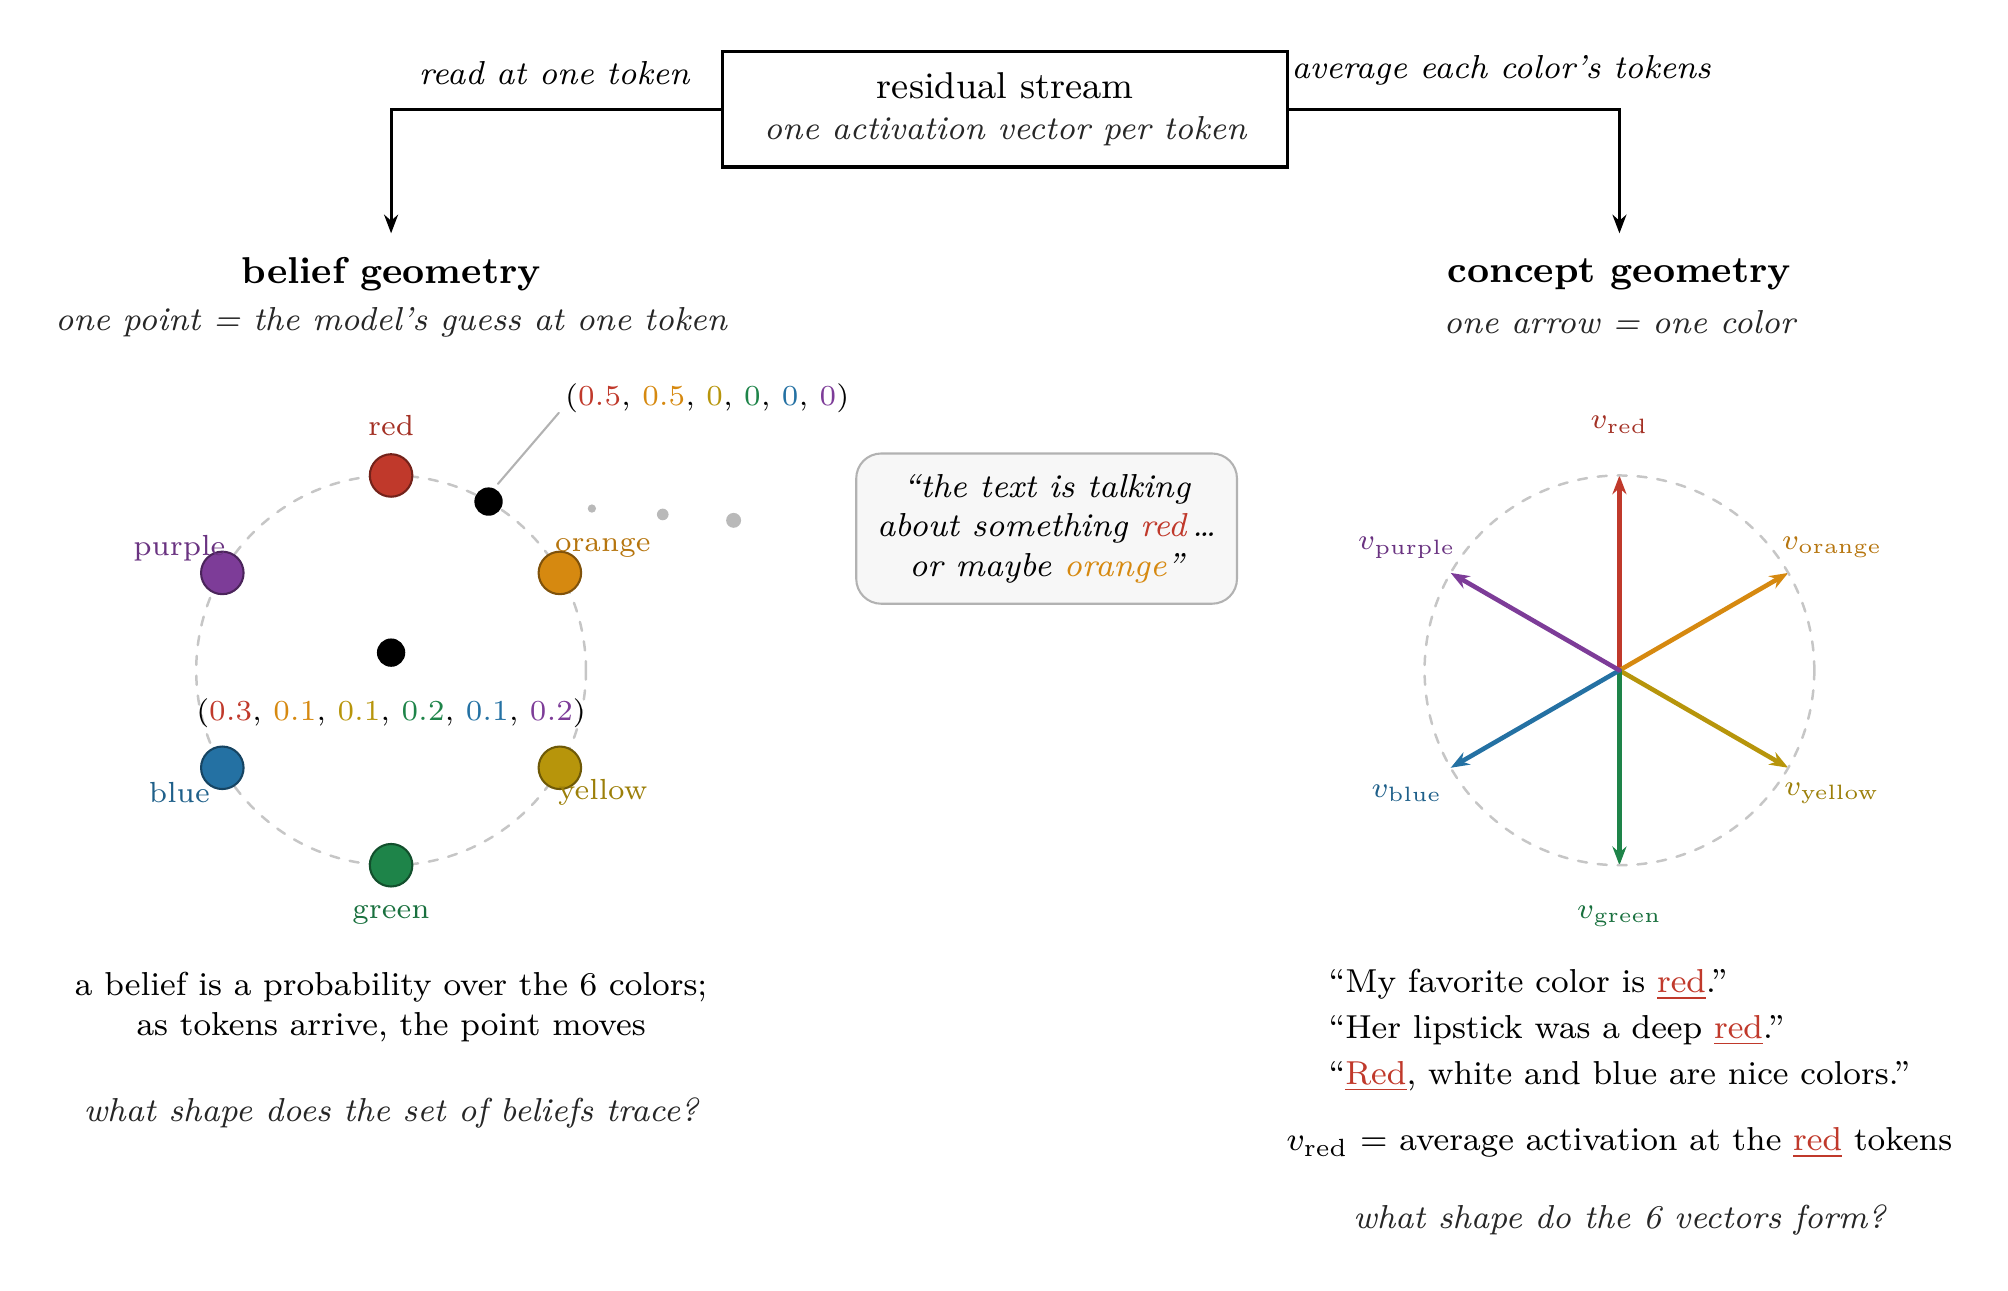
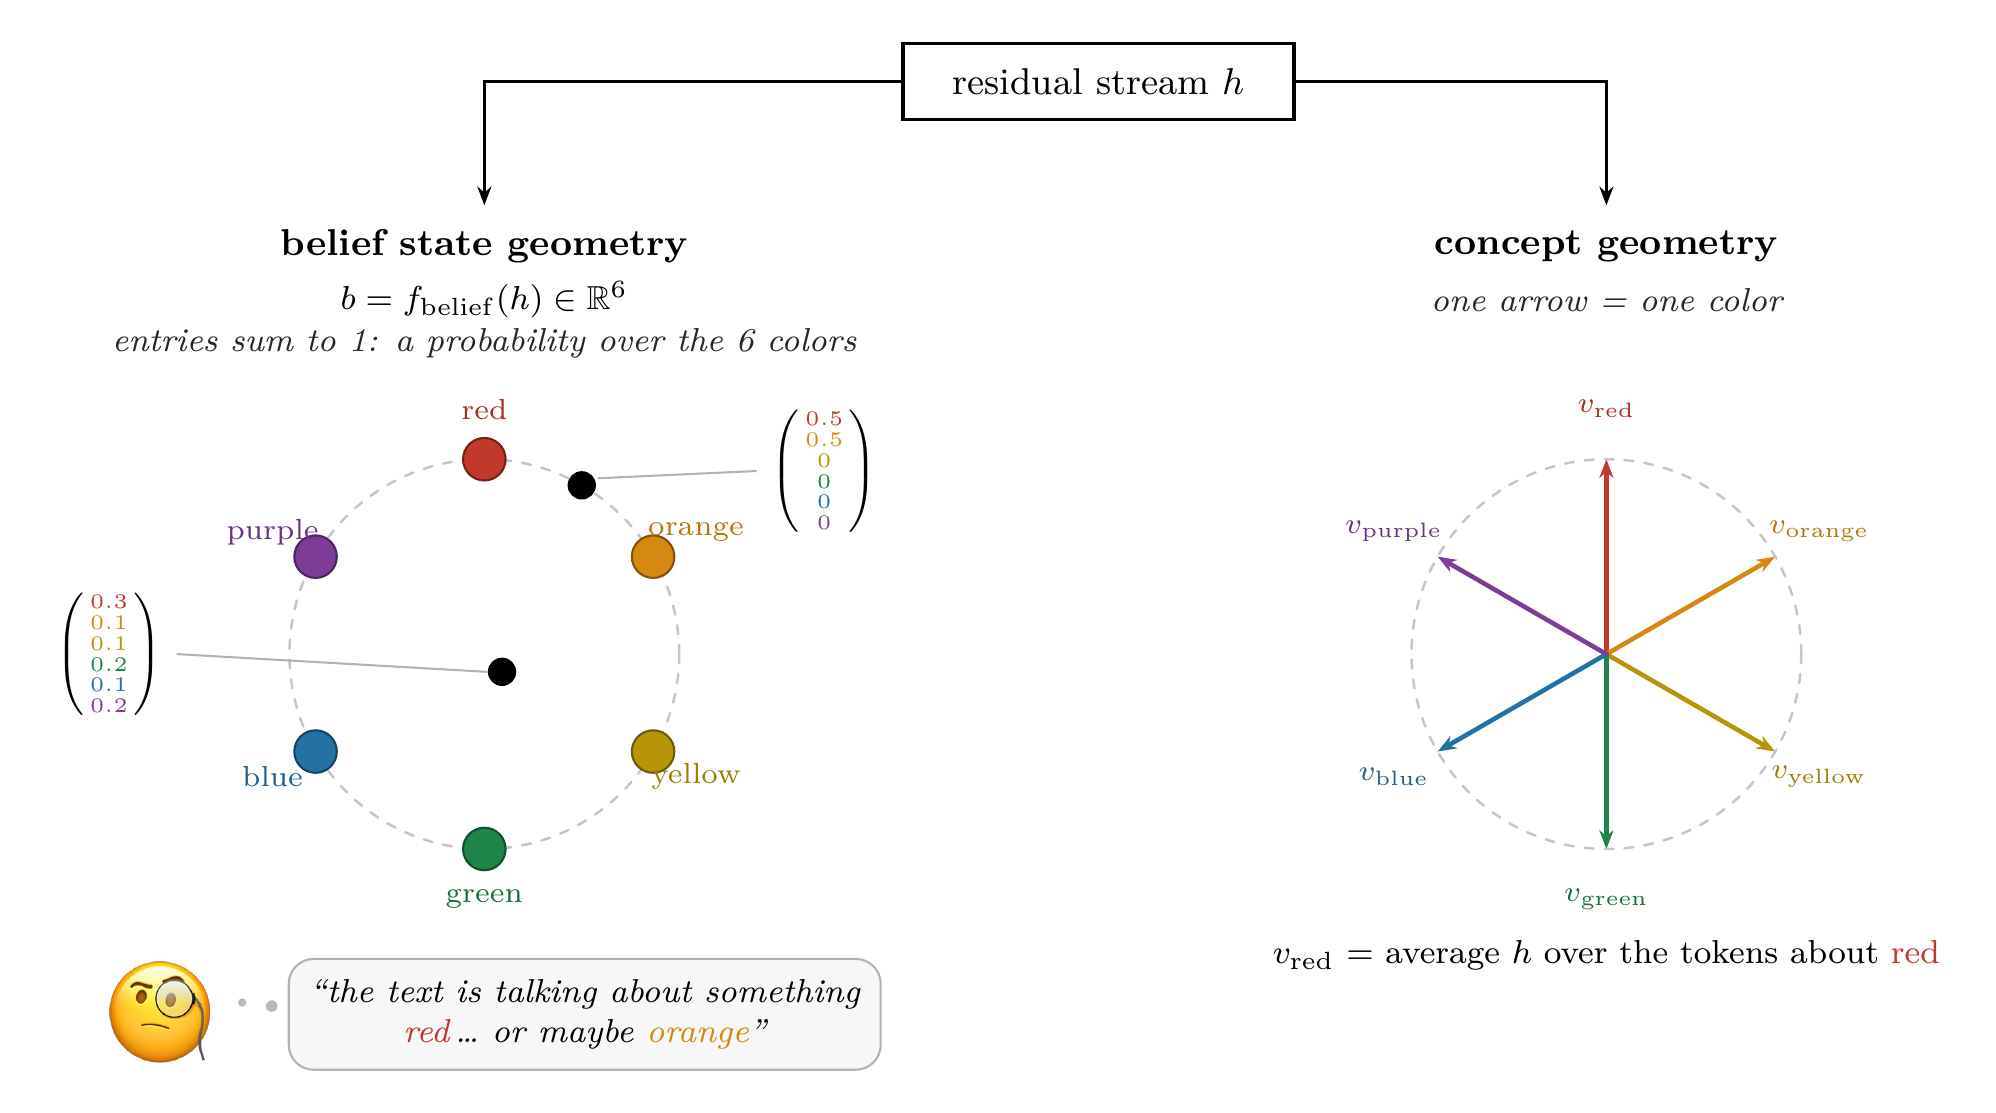
exp06 blog: belief-vs-concept diagram v2 — less text, b=f_belief(h) def, vertical tuples, monocle reader

diff --git a/experiments/06_short_dwell/src/geometry_contrast_diagram.py b/experiments/06_short_dwell/src/geometry_contrast_diagram.py
@@ -1,13 +1,14 @@
-"""Intro diagram: belief geometry vs concept geometry, on a 6-color example.
+"""Intro diagram: belief state geometry vs concept geometry, 6-color example.
 
-Left: the belief view — one point per token, a probability tuple over the
-6 colors; a confident-between-neighbors point on the ring and an uncertain
-interior point. Right: the concept view — one vector per color, obtained
-by averaging activations over that color's tokens; what shape do the 6
-vectors form? Both read from the same residual stream (top).
+Left: the belief view — b = f_belief(h), a probability over the 6 colors;
+a confident-between-neighbors point on the ring (vertical tuple) and an
+uncertain interior point, plus a monocle reader thinking the belief out
+loud. Right: the concept view — one vector per color, v_red = average h
+over the tokens about red. Both read from the same residual stream (top).
 
-Requires: tectonic, pdftoppm (same pipeline as method_diagram.py).
-Writes results/blog/fig_belief_vs_concept.png and copies it to ~/Desktop.
+Requires: tectonic, pdftoppm, Pillow (emoji). Same pipeline as
+method_diagram.py. Writes results/blog/fig_belief_vs_concept.png and
+copies it to ~/Desktop.
 
 Usage: python3 geometry_contrast_diagram.py
 """
@@ -27,15 +28,27 @@ ANG = [90 - 60 * i for i in range(6)]      # red on top, clockwise
 R = 1.65
 
 
-def belief_tuple(vals):
-    """Probability tuple with each entry typeset in its state's color."""
-    parts = [rf"\textcolor{{c{name}}}{{{v}}}"
-             for (name, _), v in zip(COLORS, vals)]
-    return r"$(" + ",\\,".join(parts) + r")$"
+def emoji_png():
+    """Render the monocle-face emoji to WORK/monocle.png (Apple bitmap)."""
+    from PIL import Image, ImageDraw, ImageFont
+    font = ImageFont.truetype("/System/Library/Fonts/Apple Color Emoji.ttc",
+                              160)
+    img = Image.new("RGBA", (320, 320), (0, 0, 0, 0))
+    ImageDraw.Draw(img).text((160, 160), "\U0001F9D0", font=font,
+                             embedded_color=True, anchor="mm")
+    img.crop(img.getbbox()).save(WORK / "monocle.png")
+
+
+def belief_column(vals):
+    """Vertical probability tuple, each entry in its state's color."""
+    rows = "\\\\".join(rf"\textcolor{{c{name}}}{{{v}}}"
+                       for (name, _), v in zip(COLORS, vals))
+    return (r"$\left(\begin{smallmatrix}" + rows +
+            r"\end{smallmatrix}\right)$")
 
 
 def left_panel():
-    lines = [r"\begin{scope}[shift={(-5.2,-0.75)}]"]
+    lines = [r"\begin{scope}[shift={(-5.2,-0.85)}]"]
     lines.append(r"\draw[gray!45, line width=0.6pt, dash pattern=on 2.2pt "
                  rf"off 2.6pt] (0,0) circle ({R}cm);")
     for (name, _), a in zip(COLORS, ANG):
@@ -49,28 +62,35 @@ def left_panel():
     # belief A: on the arc between red and orange, only two nonzero coords
     lines.append(rf"\node[circle, fill=black, minimum size=2.4mm, "
                  rf"inner sep=0pt] (bA) at (60:{R}cm) {{}};")
-    lines.append(r"\node[font=\scriptsize, anchor=west] at (1.35,2.3) "
-                 rf"{{{belief_tuple(['0.5', '0.5', '0', '0', '0', '0'])}}};")
-    lines.append(r"\draw[gray!60, line width=0.5pt] (1.42,2.18) -- "
-                 r"($(bA)+(0.08,0.15)$);")
+    lines.append(r"\node[font=\scriptsize, anchor=west] (tA) at (2.3,1.55) "
+                 rf"{{{belief_column(['0.5', '0.5', '0', '0', '0', '0'])}}};")
+    lines.append(r"\draw[gray!60, line width=0.5pt] (tA.west) -- "
+                 r"($(bA)+(0.14,0.06)$);")
     # belief B: interior, spread over everything
     lines.append(r"\node[circle, fill=black, minimum size=2.4mm, "
-                 r"inner sep=0pt] (bB) at (0,0.15) {};")
-    lines.append(r"\node[font=\scriptsize, anchor=north] at (0,-0.12) "
-                 rf"{{{belief_tuple(
+                 r"inner sep=0pt] (bB) at (0.15,-0.15) {};")
+    lines.append(r"\node[font=\scriptsize, anchor=east] (tB) at (-2.6,0.0) "
+                 rf"{{{belief_column(
                      ['0.3', '0.1', '0.1', '0.2', '0.1', '0.2'])}}};")
-    # captions
-    lines.append(r"\node[font=\footnotesize, align=center] at (0,-2.85) "
-                 r"{a belief is a probability over the 6 colors;\\"
-                 r"as tokens arrive, the point moves};")
-    lines.append(r"\node[font=\footnotesize\itshape, gray!30!black] at "
-                 r"(0,-3.75) {what shape does the set of beliefs trace?};")
+    lines.append(r"\draw[gray!60, line width=0.5pt] (tB.east) -- "
+                 r"($(bB)+(-0.13,0.0)$);")
+    # monocle reader thinking the belief out loud, below the circle
+    lines.append(r"\node[inner sep=0pt] at (-2.75,-3.05) "
+                 r"{\includegraphics[width=8.5mm]{monocle.png}};")
+    lines.append(r"\node[draw=gray!60, fill=gray!6, rounded corners=6pt, "
+                 r"line width=0.5pt, font=\itshape\footnotesize, "
+                 r"align=center, inner sep=5pt] (th) at (0.85,-3.05) "
+                 r"{``the text is talking about something\\"
+                 r"\textcolor{cred}{red}\,\ldots{} or maybe "
+                 r"\textcolor{corange}{orange}''};")
+    lines.append(r"\fill[gray!55] (-2.05,-2.95) circle (1.0pt) "
+                 r"(-1.8,-2.98) circle (1.4pt);")
     lines.append(r"\end{scope}")
     return "\n".join(lines)
 
 
 def right_panel():
-    lines = [r"\begin{scope}[shift={(5.2,-0.75)}]"]
+    lines = [r"\begin{scope}[shift={(4.3,-0.85)}]"]
     for (name, _), a in zip(COLORS, ANG):
         lines.append(
             rf"\draw[->, c{name}, line width=1.1pt] (0,0) -- ({a}:{R}cm) "
@@ -78,37 +98,23 @@ def right_panel():
             rf"pos=1.26] {{$v_{{\mathrm{{{name}}}}}$}};")
     lines.append(r"\draw[gray!45, line width=0.6pt, dash pattern=on 2.2pt "
                  rf"off 2.6pt] (0,0) circle ({R}cm);")
-    # sentences with red underlined, then the definition of v_red
-    lines.append(r"\node[font=\footnotesize, align=left] at (0,-3.05) {"
-                 + sentences() + r"};")
-    lines.append(r"\node[font=\footnotesize] at (0,-4.0) "
-                 r"{$v_{\mathrm{red}}$ = average activation at the "
-                 r"\textcolor{cred}{\underline{red}} tokens};")
-    lines.append(r"\node[font=\footnotesize\itshape, gray!30!black] at "
-                 r"(0,-4.65) {what shape do the 6 vectors form?};")
+    lines.append(r"\node[font=\footnotesize] at (0,-2.55) "
+                 r"{$v_{\mathrm{red}}$ = average $h$ over the tokens "
+                 r"about \textcolor{cred}{red}};")
     lines.append(r"\end{scope}")
     return "\n".join(lines)
 
 
-def sentences():
-    def red(w):
-        return rf"\textcolor{{cred}}{{\underline{{\smash{{{w}}}}}}}"
-    rows = [
-        rf"``My favorite color is {red('red')}.''",
-        rf"``Her lipstick was a deep {red('red')}.''",
-        rf"``{red('Red')}, white and blue are nice colors.''",
-    ]
-    return (r"\begin{tabular}{@{}l@{}}" +
-            r"\\[1.5pt]".join(rows) + r"\end{tabular}")
-
-
 def main():
     WORK.mkdir(parents=True, exist_ok=True)
+    emoji_png()
     color_defs = "\n".join(
         rf"\definecolor{{c{n}}}{{HTML}}{{{h}}}" for n, h in COLORS)
     tex = r"""\documentclass[border=10pt]{standalone}
 \usepackage{amsmath}
+\usepackage{amssymb}
 \usepackage{xcolor}
+\usepackage{graphicx}
 \usepackage{tikz}
 \usetikzlibrary{arrows.meta, calc}
 """ + color_defs + r"""
@@ -116,39 +122,23 @@ def main():
 \begin{tikzpicture}[>={Stealth[length=4.5pt]}, line cap=round]
 
 % ---- top: the shared residual stream ----
-\node[draw=black, line width=0.8pt, font=\small, align=center,
-      inner xsep=10pt, inner ysep=5pt] (rs) at (0, 4.0)
-      {residual stream\\[-1pt]
-       {\footnotesize\itshape\color{gray!30!black}
-        one activation vector per token}};
+\node[draw=black, line width=0.8pt, font=\small, inner xsep=12pt,
+      inner ysep=6pt] (rs) at (0, 4.0) {residual stream $h$};
 
-% ---- arrows from the stream to the two readings ----
 \draw[->, line width=0.7pt] (rs.west) -| (-5.2, 2.95);
-\draw[->, line width=0.7pt] (rs.east) -| (5.2, 2.95);
-\node[font=\itshape\footnotesize, anchor=south east] at (-2.55, 4.08)
-      {read at one token};
-\node[font=\itshape\footnotesize, anchor=south west] at (2.3, 4.08)
-      {average each color's tokens};
+\draw[->, line width=0.7pt] (rs.east) -| (4.3, 2.95);
 
 % ---- headers ----
-\node[font=\small\bfseries] at (-5.2, 2.6) {belief geometry};
-\node[font=\itshape\footnotesize, gray!30!black] at (-5.2, 2.2)
-      {one point = the model's guess at one token};
-\node[font=\small\bfseries] at (5.2, 2.6) {concept geometry};
-\node[font=\itshape\footnotesize, gray!30!black] at (5.2, 2.2)
+\node[font=\small\bfseries] at (-5.2, 2.6) {belief state geometry};
+\node[font=\footnotesize] at (-5.2, 2.15)
+      {$b = f_{\mathrm{belief}}(h) \in \mathbb{R}^6$};
+\node[font=\itshape\footnotesize, gray!30!black] at (-5.2, 1.78)
+      {entries sum to 1: a probability over the 6 colors};
+\node[font=\small\bfseries] at (4.3, 2.6) {concept geometry};
+\node[font=\itshape\footnotesize, gray!30!black] at (4.3, 2.15)
       {one arrow = one color};
 
 """ + left_panel() + "\n\n" + right_panel() + r"""
-
-% ---- thought bubble for belief A, in the middle gap ----
-\node[draw=gray!60, fill=gray!6, rounded corners=6pt, line width=0.5pt,
-      font=\itshape\footnotesize, align=center, inner sep=5pt]
-      (th) at (0.35, 0.45)
-      {``the text is talking\\about something
-       \textcolor{cred}{red}\,\ldots\\or maybe
-       \textcolor{corange}{orange}''};
-\fill[gray!55] (-3.5, 0.62) circle (1.0pt) (-2.9, 0.57) circle (1.4pt)
-      (-2.3, 0.52) circle (1.8pt);
 
 \end{tikzpicture}
 \end{document}
